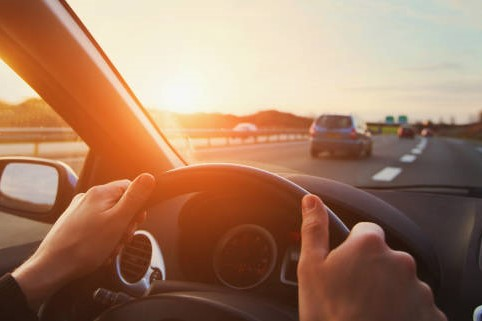
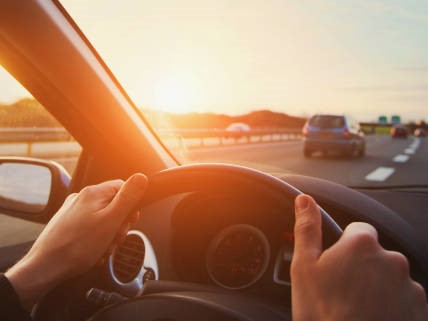
reduced size of new images

diff --git a/src/AppRouter.tsx b/src/AppRouter.tsx
@@ -1,7 +1,6 @@
 import { BrowserRouter as Router, Routes, Route } from 'react-router-dom';
 import { lazy, Suspense } from 'react';
 
-import { delayLoad } from "./assets/Functions"
 import { HelmetProvider  } from 'react-helmet-async';
 import { PageNotFound } from './pages/PageNotFound';
 import { Navbar } from './assets/components/Navbar';
@@ -15,12 +14,12 @@ import InterStateTrevellingPage from './pages/services/interstatetravelling/page
 import LogisticsPage from './pages/services/logistics/page';
 
 
-const HomePage = lazy(() => delayLoad(import("./pages/home/page")))
-const AboutPage = lazy(() => delayLoad(import('./pages/about/page')))
-const ServicesPage = lazy(() => delayLoad(import('./pages/services/page')))
-const JobsPage = lazy(() => delayLoad(import('./pages/Jobs/page')))
-const StudyAbroadPage = lazy(() => delayLoad(import('./pages/studyabroad/page')))
-const ContactPage = lazy(() => delayLoad(import('./pages/contact/page')))
+const HomePage = lazy(() => import("./pages/home/page"))
+const AboutPage = lazy(() => import('./pages/about/page'))
+const ServicesPage = lazy(() => import('./pages/services/page'))
+const JobsPage = lazy(() => import('./pages/Jobs/page'))
+const StudyAbroadPage = lazy(() => import('./pages/studyabroad/page'))
+const ContactPage = lazy(() => import('./pages/contact/page'))
 
 
 export const AppRouter = () => {  

diff --git a/src/assets/Functions.tsx b/src/assets/Functions.tsx
@@ -1,8 +1,4 @@
-export function delayLoad(promise : any) {
-    return new Promise(resolve => {
-      setTimeout(resolve, 0);
-    }).then(() => promise);
-  }
+
 
 
 
